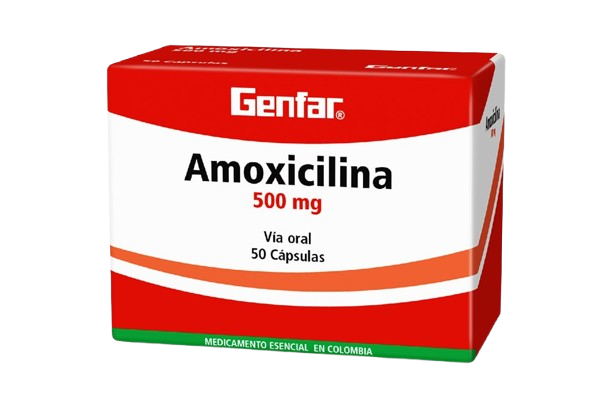
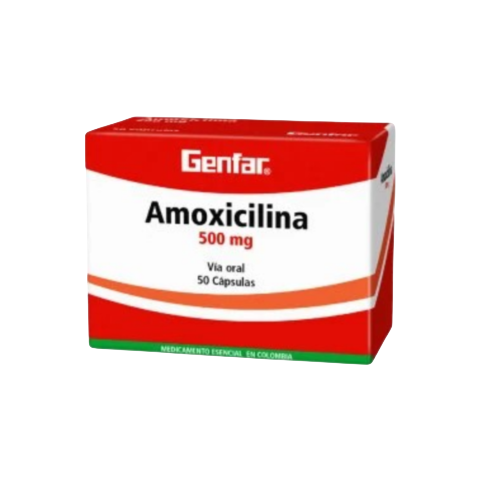
feat:Se agregó titulo generación de reporte al Excel de proveedores, se modificó imagen de amoxicilina para adecuar el tamnaño

diff --git a/frontend/curatio/src/features/suppliers/reports/services/generateExcelReport.js b/frontend/curatio/src/features/suppliers/reports/services/generateExcelReport.js
@@ -7,21 +7,48 @@ import * as XLSX from "xlsx";
 export function generateExcelReport({
   headers,                       // Array de encabezados (columnas)
   rows,                          // Array de filas (array de arrays)
-  fileName = "supplier-report.xlsx"  // Nombre del archivo de salida
+  fileName = "supplier-report.xlsx",  // Nombre del archivo de salida
+  title = "Reporte de proveedores"                           // Título opcional del reporte
 }) {
 
 
   // Estructura final de la hoja:
+  // Primera fila = título (si se proporciona)
+  // Fila vacía para separación
   // Primera fila = headers
   // Siguientes filas = datos
-  const worksheetData = [
+  const worksheetData = title ? [
+    [title], //Fila del titulo
+    [],
     headers,
     ...rows
-  ];
+  ]: [
+    headers,
+    ...rows
+  ]
 
 
   // Convierte un array de arrays (AOA = Array of Arrays) en una hoja de Excel
   const worksheet = XLSX.utils.aoa_to_sheet(worksheetData);
+
+
+  // Aplica estilos al título (negrilla, tamaño mayor, centrado)
+  if (title) {
+    const titleCell = worksheet["A1"];
+    if (titleCell) {
+      titleCell.s = {
+        font: {
+          bold: true,
+          size: 16,
+          color: { rgb: "000000" }
+        },
+        alignment: {
+          horizontal: "center",
+          vertical: "center"
+        }
+      };
+    }
+  }
 
 
   // Crea un nuevo libro de Excel (workbook)
@@ -33,5 +60,5 @@ export function generateExcelReport({
 
 
   // Genera y descarga el archivo Excel en el cliente
-  XLSX.writeFile(workbook, fileName);
+  XLSX.writeFile(workbook, fileName, { cellStyles: true });
 }

diff --git a/frontend/curatio/src/features/products/pages/ProductShowPage.jsx b/frontend/curatio/src/features/products/pages/ProductShowPage.jsx
@@ -143,7 +143,7 @@ export default function ProductShowPage() {
             {/* Acciones de compra */}
             <div className="border-t border-t-black space-y-2 flex flex-col gap-2">
               {/* Selector de cantidad */}
-              <div className="flex items-center gap-4">
+              <div className="flex items-center gap-4 p-2">
                 <span className="text-sm font-semibold text-label">Cantidad:</span>
                 <div className="flex items-center gap-2 bg-transparent rounded-lg p-1">
                   <button
